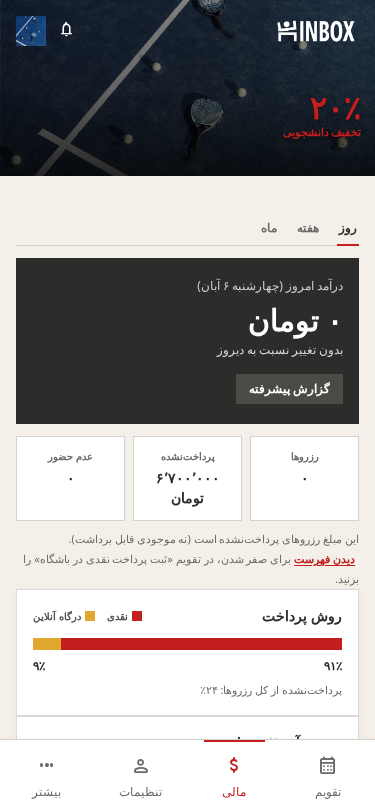
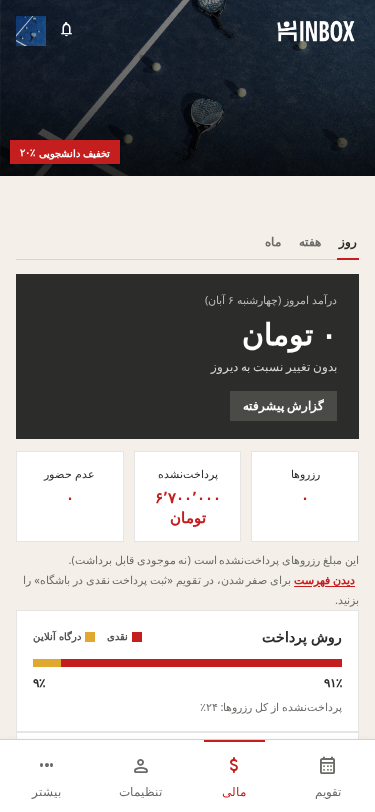
fidelity(owner-finance): SoT .ofrow layout — dark KPI card full width, 3 tiles + payment card in one row, chart full width, flat panels, red hero tag

Changed region(s): [[0.0293, 0.2771, 0.968, 0.9236], [0.0293, 0.1539, 0.3227, 0.2155], [0.7627, 0.1232, 0.968, 0.1847]]

diff --git a/app/assets/css/main.css b/app/assets/css/main.css
@@ -4779,3 +4779,25 @@
   .canva-notif-hero-sot > div > div:first-child { visibility: hidden; height: 0; }
   .canva-notif-hero-sot button { background: #fff !important; color: #2c2c2a; border: 1px solid rgba(44,44,42,.12); backdrop-filter: none; }
 }
+
+/* owner-finance — SoT .oftab/.ofdark/.ofrow/.ofst/.ofpay/.ofchart (page pass) */
+.owner-finance-page .canva-finance-period { display:flex; gap:14px; border-bottom:1px solid rgba(44,44,42,.14); margin:14px 0 }
+.owner-finance-page .canva-finance-hero-card { background:#2c2c2a; padding:18px 22px; margin-bottom:12px; border-radius:0 }
+.owner-finance-page .canva-finance-hero-card > p:first-child { font-size:11px; color:#bdbcb7 }
+.owner-finance-page .canva-finance-hero-card > p:nth-child(2) { font-size:30px; line-height:1.3; margin:6px 0 }
+.owner-finance-page .canva-finance-chip { padding:14px; border-color:rgba(44,44,42,.12); border-radius:0 }
+.owner-finance-page .canva-finance-chip-label { font-size:11px; font-weight:400; color:#2c2c2a }
+.owner-finance-page .canva-finance-chip-value { font-size:15px; color:#c41e1e }
+.owner-finance-page .canva-finance-method-bar { height:8px; border-radius:0 }
+.owner-finance-page .canva-finance-chips { gap:10px }
+@media (min-width: 1024px) {
+  .owner-finance-page .canva-cal-sheet { padding-inline:0; margin-top:0; padding-top:0.5rem }
+  .owner-finance-page .canva-finance-wide { grid-template-columns:1.4fr 1fr; gap:12px }
+  .owner-finance-page .canva-finance-wide > :nth-child(n+3) { grid-column:1 / -1 }
+  .owner-finance-page .canva-finance-wide > .canva-panel { padding:14px; border-radius:0 }
+  .owner-finance-page .canva-finance-wide > .canva-panel:nth-child(3) { padding:16px }
+}
+.owner-finance-page .canva-panel { box-shadow:none; border:1px solid rgba(44,44,42,.12) }
+.owner-finance-page .canva-finance-chart { background:transparent }
+.owner-finance-page .canva-promo-badge-hero { inset:auto auto 12px 10px !important; background:#c41e1e; padding:4px 10px; display:flex; flex-direction:row-reverse; gap:4px; align-items:center }
+.owner-finance-page .canva-promo-badge-hero > * { color:#fff !important; font-size:10px !important; font-weight:700; line-height:1.4 }

diff --git a/app/pages/owner/finance/index.vue b/app/pages/owner/finance/index.vue
@@ -469,7 +469,7 @@ function showUnpaidList() {
 </script>
 
 <template>
-  <div class="venus-page-stack">
+  <div class="venus-page-stack owner-finance-page">
     <section class="canva-photo-hero">
       <CanvaHeroImg
         :src="activeMembership?.club?.image || '/hero/tennis-court.jpg'"
